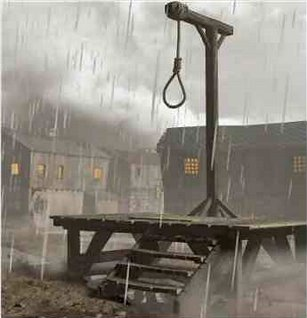
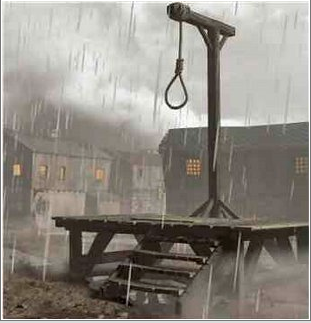
added pictures for approach to hanging and scripted word selection and display of blanks

diff --git a/17HangMan/hangscript.js b/17HangMan/hangscript.js
@@ -1,7 +1,5 @@
 
-// set up 2 html pages to switch between. One pages is the accusor - explains rules gives game dialogue etc.
-// 2nd page is the actual hang man gallows with stick figure walking towards platform and display of
-// blanks spaces, used letters, available letters. 
+
 // 1. function to ammend available letters based on key entered-> replace available letters with "". 
 // include a loop to denote invalid key entrered (for numbers, symbols etc)
 // 2. function display used letters -> when letters are moved out of available they are pushed into an array either for used letters (which are not in the answer) OR the letters are revealed in the answer; 
@@ -30,24 +28,52 @@
 // $(document).ready(function(item){
 
 $(document).ready(function(){
-$("#usedLetters").keyup(function(){
-    var usedLetter = $("#usedLetters").val().toLowerCase();
-        availableLets = [];
-    if (availableLets.indexOf(user) > -1){
-     $("#usedLetters ").append("<span>usedLetter</span>");
-}
-    
-});
+    var words =["it","can","be","intimidating","to","leave","your","job","and","pursue","novel","career","opportunities","but","ultimately","when","given","only","one", "life", "experiencing", "more", "challenging","oneself", "seems","better","than","sticking","with","status","quo","ride", "tigers","drive","racecars","communicate", "with", "computers", "eat","weird","fruit", "but", "never", "stagnate"] 
+    var length = words.length;    
+
+    var chooseWord = function(words){
+        return words[Math.floor((Math.random()*length)-1)] 
+        }
+
+    var word = chooseWord(words);
+
+    var letters = word.split("");
+    console.log(letters);
+
+    var spaceOut = function(spaces) {
+        var blank = " __ "
+        return blank.repeat(spaces)
+        }
+ 
+    var spaces = spaceOut(letters.length);
+
+    console.log(spaces);
+
+    $("#blanks").append(spaces);
 });
 
 //at document ready (execute this section of code only once (1) function to randomly select a word from the word array
 //(2) function to break the word into an array of letters .split("")
 //(3)function to set up a number of blanks that corresponds to the .length of the array
+//(4)roll intro dialogue from the accusor -- including randomly selected crime
 
+// for game play loop 
 // coordinate so (1)dilogue says choose a letter!
 //(2) image changes to gallows and character walking towards gallows $("#picture").attr("src","gallows.png")
 //(3) css changes id of input field for enterLetter from invisible to a visible color $("#enterLetter").css("display","inline-block");
-//(5) display box shwoing letters used
+//(5) display box showing letters used
+// // after prompting, take user input of one letter 
+// $("#usedLetters").keyup(function(){
+//     var usedLetter = $("#usedLetters").val().toLowerCase();
+//         availableLets = [];
+//     if (availableLets.indexOf(user) > -1){
+//      $("#usedLetters ").append("<span>usedLetter</span>");
+// }
+    
+// });
 // if a letter that is entered is contained in the used letter element OR the 
 // key typed is not a letter, then blink the screen .fadeIn("fast").delay(800)
 //    .fadeout("fast")
+// game play loop ends when either 9 wrong guesses are given OR all blanks are filled in
+
+//end of game either animation of stick figure swinging on noose OR image of accusor and dialoge like "my bad. Guess you do know a think or two about words. case dismissed"

diff --git a/17HangMan/hangman.html b/17HangMan/hangman.html
@@ -45,6 +45,11 @@ Use a library to add some cool animation when you win/lose the game. -->
                 <img class="img-responsive" src="accuser.png">
                 </div> <!-- end picture -->
                 </div> <!-- end dialogAndPic --> 
+
+                <div class="row"> 
+                <div class="col-sm-10" id="blanks"> </div> 
+
+               </div> <!-- end row for blanks-->
                 
                <div class="row">
                <input class="col-xs-4" id="enterLetter">
@@ -52,7 +57,7 @@ Use a library to add some cool animation when you win/lose the game. -->
 
           
            </div> <!-- end col-sm-10 -->
-          </div> <!-- end row -->
+          </div> <!-- end outter row -->
         </div> <!-- end container-->
 
    <!-- 1. set up display of used letters in one corner

diff --git a/17HangMan/hangstyle.css b/17HangMan/hangstyle.css
@@ -30,4 +30,16 @@ background-color:white;
 padding: 2em; 
 }
 
+img{padding-bottom: 10px;}
+
 #enterLetter{display: none;}
+
+#blanks{
+background-color:#f3961c;
+color: green;
+font-weight: bold;
+border-width: 10px;
+border-color: violet;
+padding-top: 10px;
+text-align: center;
+}
